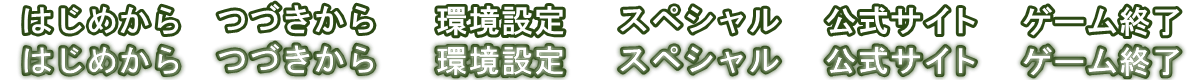
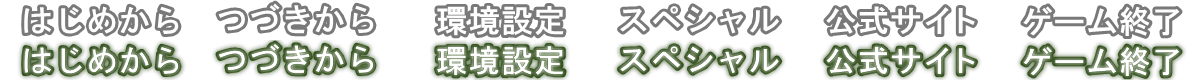
マウスオーバー処理

Changed region(s): [[0.0, 0.025, 0.9867, 0.5]]

diff --git a/src/scene/title/TitleData.cpp b/src/scene/title/TitleData.cpp
@@ -1,6 +1,13 @@
 //---------------------------------------------------------------------
 #include "TitleData.h"
 
+int TitleData::button_num = 6;
+int TitleData::button_size_x = 200;
+int TitleData::button_size_y = 40;
+int TitleData::button_pos_x = 1000;
+int TitleData::button_pos_y = 300;
+int TitleData::button_margin = 20;
+
 //---------------------------------------------------------------------
 TitleData::TitleData()
 {
@@ -12,3 +19,43 @@ TitleData::~TitleData()
 
 }
 //---------------------------------------------------------------------
+bool TitleData::isButtonPos(int n, int x, int y)
+{
+    int px1 = getButtonPosX(n);
+    int py1 = getButtonPosY(n);
+    int px2 = px1 + getButtonSizeX();
+    int py2 = py1 + getButtonSizeY();
+    if (x < px1 || x > px2 || y < py1 || y > py2) { return false; }
+    return true;
+}
+//---------------------------------------------------------------------
+int TitleData::getButtonImage(int n, int x, int y)
+{
+    if (isButtonPos(n, x, y)) { return n + getButtonNum(); }
+    return n;
+}
+//---------------------------------------------------------------------
+int TitleData::getButtonNum()
+{
+    return button_num;
+}
+//---------------------------------------------------------------------
+int TitleData::getButtonSizeX()
+{
+    return button_size_x;
+}
+//---------------------------------------------------------------------
+int TitleData::getButtonSizeY()
+{
+    return button_size_y;
+}
+//---------------------------------------------------------------------
+int TitleData::getButtonPosX(int n)
+{
+    return button_pos_x;
+}
+//---------------------------------------------------------------------
+int TitleData::getButtonPosY(int n)
+{
+    return button_pos_y + n * (button_size_y + button_margin);
+}

diff --git a/src/scene/title/TitleDraw.cpp b/src/scene/title/TitleDraw.cpp
@@ -6,6 +6,7 @@
 TitleDraw::TitleDraw(GameState* state)
 {
     title_state = state->getSceneState()->getTitleState();
+    input_state = state->getInputState();
     loadImage();
 }
 //---------------------------------------------------------------------
@@ -18,7 +19,13 @@ void TitleDraw::loadImage()
 {
     image_circle_logo = LoadGraph("image/title/circle_logo.png");
     image_title_back = LoadGraph("image/title/title_back.png");
-    LoadDivGraph("image/title/title_button.png", 12, 6, 2, 200, 40, image_title_button);
+    LoadDivGraph("image/title/title_button.png",
+        TitleData::getButtonNum() * 2,
+        TitleData::getButtonNum(),
+        2,
+        TitleData::getButtonSizeX(),
+        TitleData::getButtonSizeY(),
+        image_title_button);
 }
 //---------------------------------------------------------------------
 void TitleDraw::update()
@@ -54,11 +61,19 @@ void TitleDraw::drawCircle()
 //---------------------------------------------------------------------
 void TitleDraw::drawTitle()
 {
+    //
+    int mousex = input_state->getPointX();
+    int mousey = input_state->getPointY();
+
     // background
     DrawGraph(0, 0, image_title_back, TRUE);
 
     // button
-    for (int i = 0; i < 6; i++) {
-        DrawGraph(1000, 350+i*60, image_title_button[i], TRUE);
+    for (int n = 0; n < 6; n++) {
+        DrawGraph(
+            TitleData::getButtonPosX(n),
+            TitleData::getButtonPosY(n),
+            image_title_button[TitleData::getButtonImage(n, mousex, mousey)],
+            TRUE);
     }
 }

diff --git a/src/scene/title/TitleData.h b/src/scene/title/TitleData.h
@@ -2,8 +2,24 @@
 
 class TitleData
 {
+public:
 private:
     TitleData();
     ~TitleData();
+    static int button_num;
+    static int button_size_x;
+    static int button_size_y;
+    static int button_pos_x;
+    static int button_pos_y;
+    static int button_margin;
 public:
+    static bool isButtonPos(int, int, int);
+
+    static int getButtonImage(int, int, int);
+
+    static int getButtonNum();
+    static int getButtonSizeX();
+    static int getButtonSizeY();
+    static int getButtonPosX(int);
+    static int getButtonPosY(int);
 };

diff --git a/src/scene/title/TitleDraw.h b/src/scene/title/TitleDraw.h
@@ -1,11 +1,13 @@
 #pragma once
 #include "../../GameState.h"
 #include "../../SystemData.h"
+#include "TitleData.h"
 
 class TitleDraw
 {
 private:
     TitleState* title_state;
+    InputState* input_state;
     int image_circle_logo;
     int image_title_back;
     int image_title_button[12];

diff --git a/src/scene/title/TitleManager.cpp b/src/scene/title/TitleManager.cpp
@@ -15,5 +15,7 @@ TitleManager::~TitleManager()
 void TitleManager::update()
 {
     title_state->update();
+
+    // click process
 }
 //---------------------------------------------------------------------
